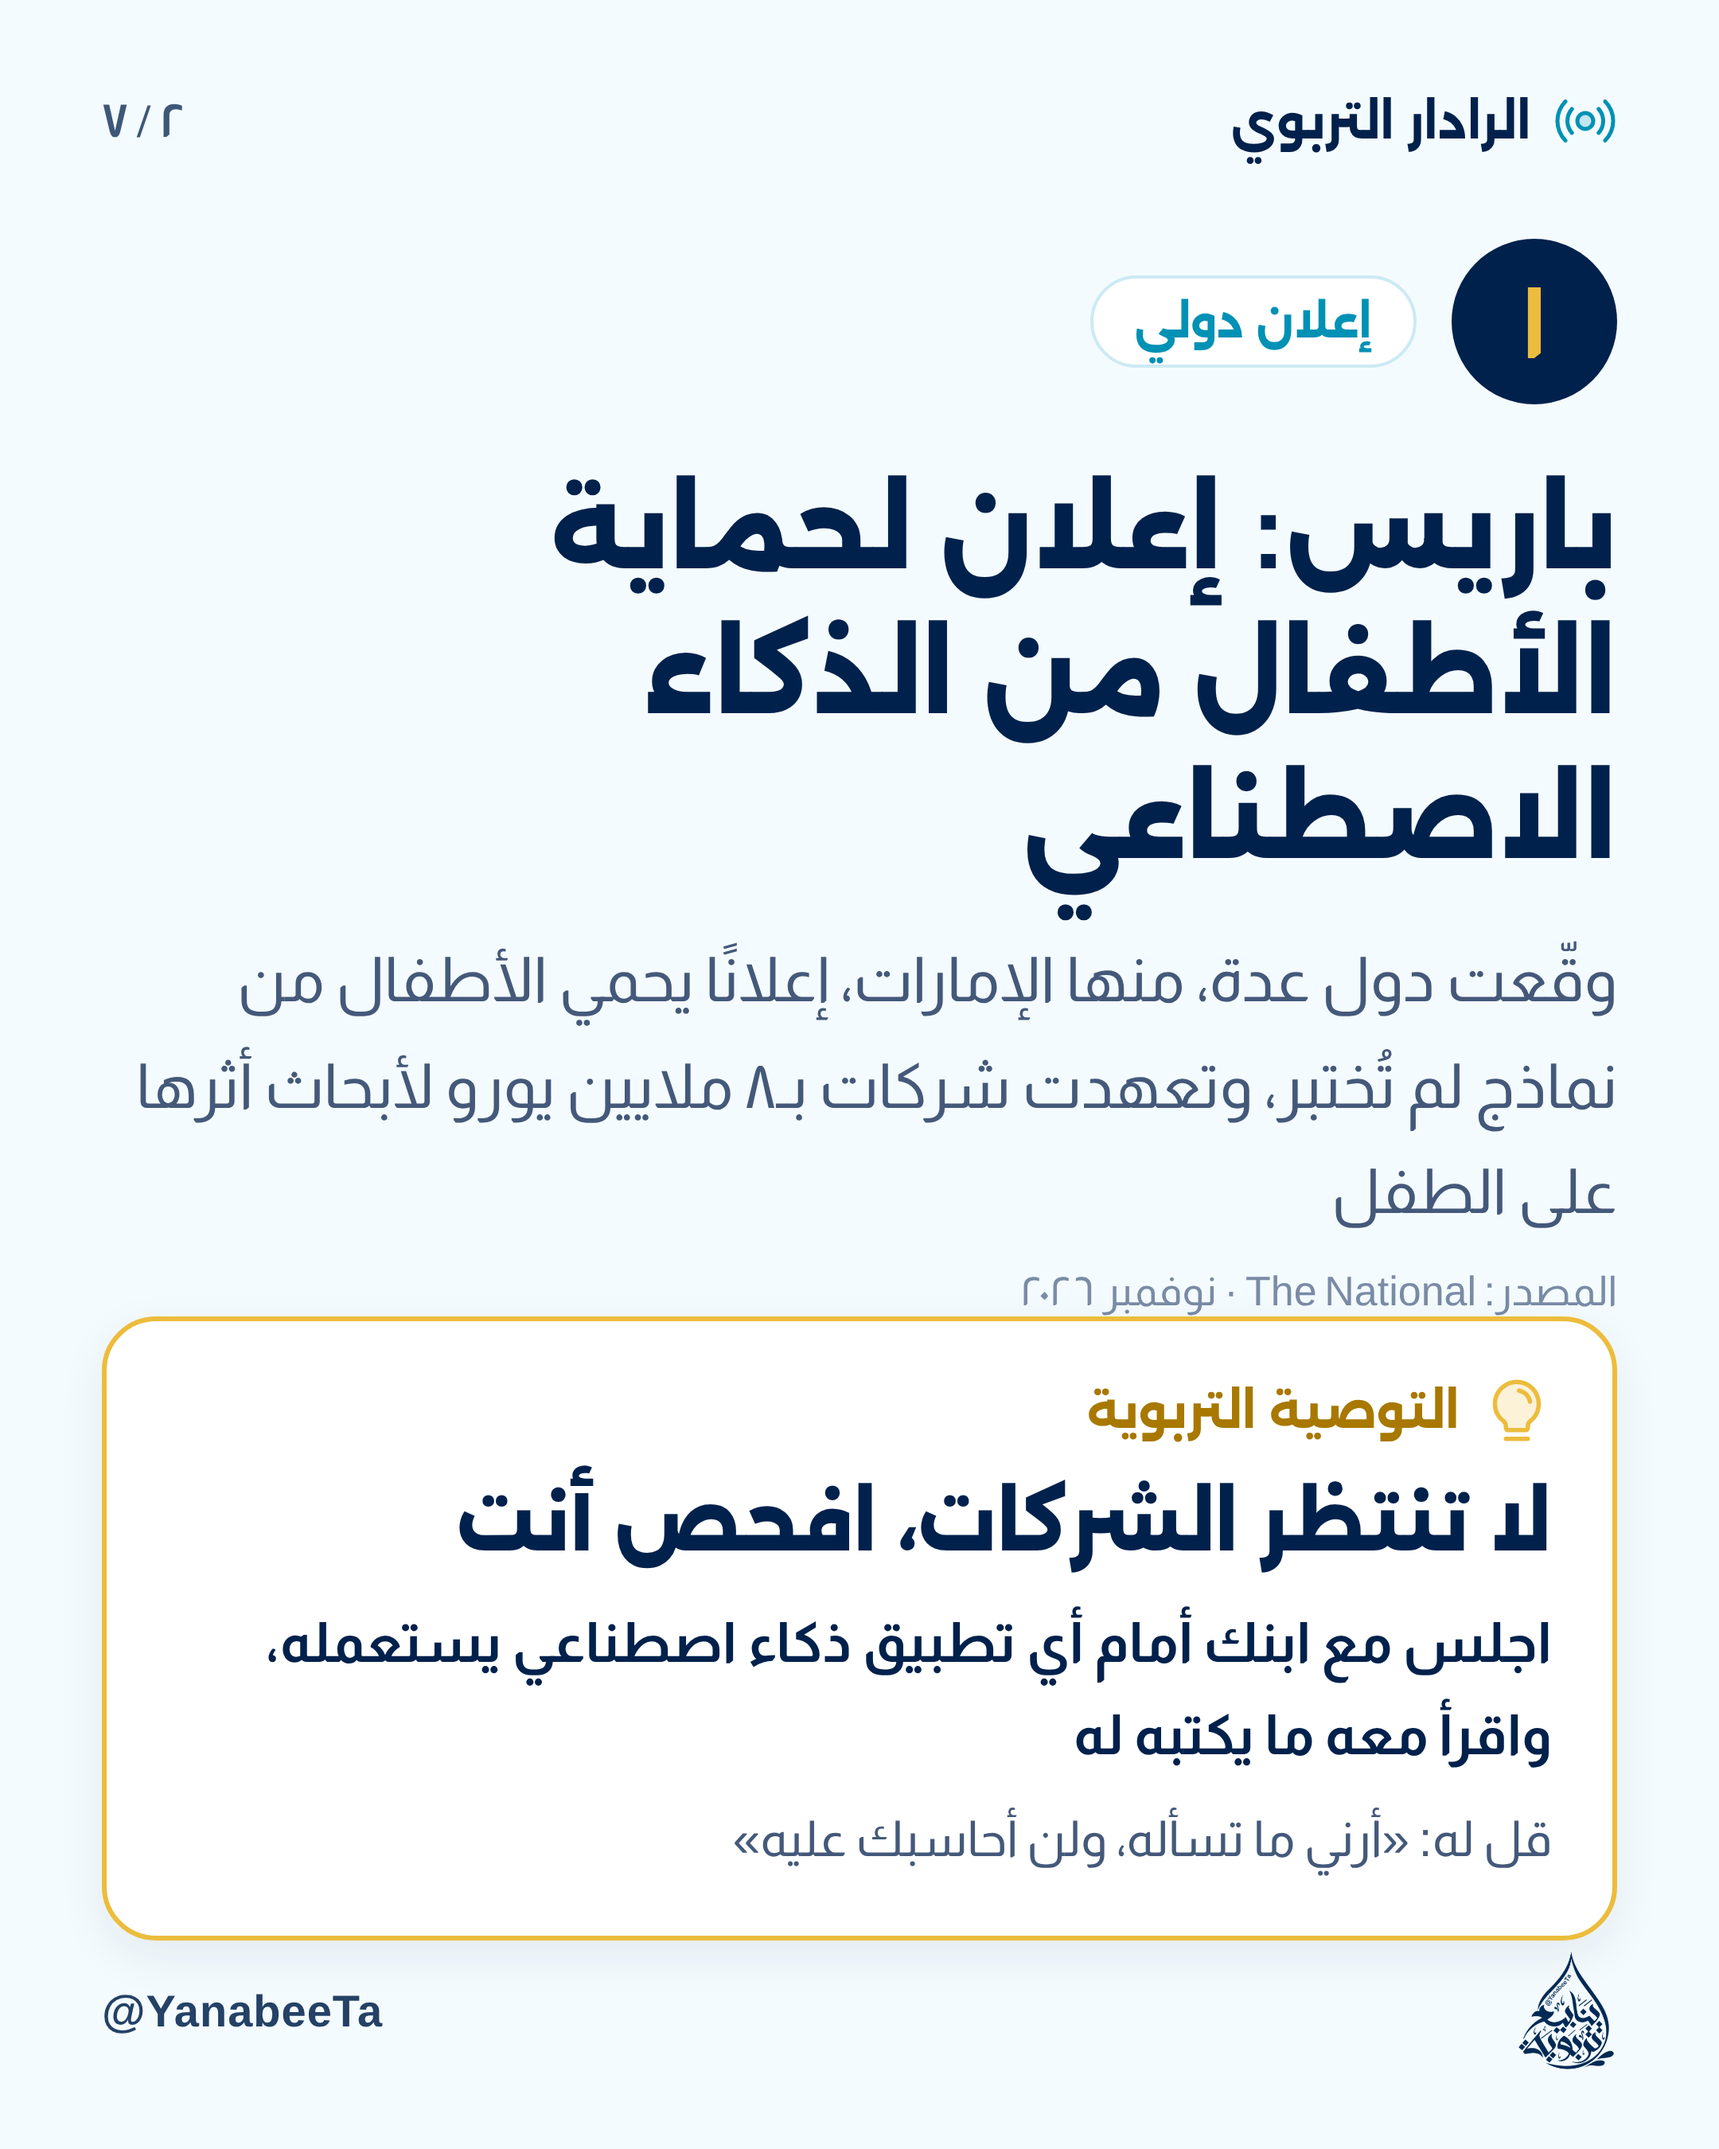
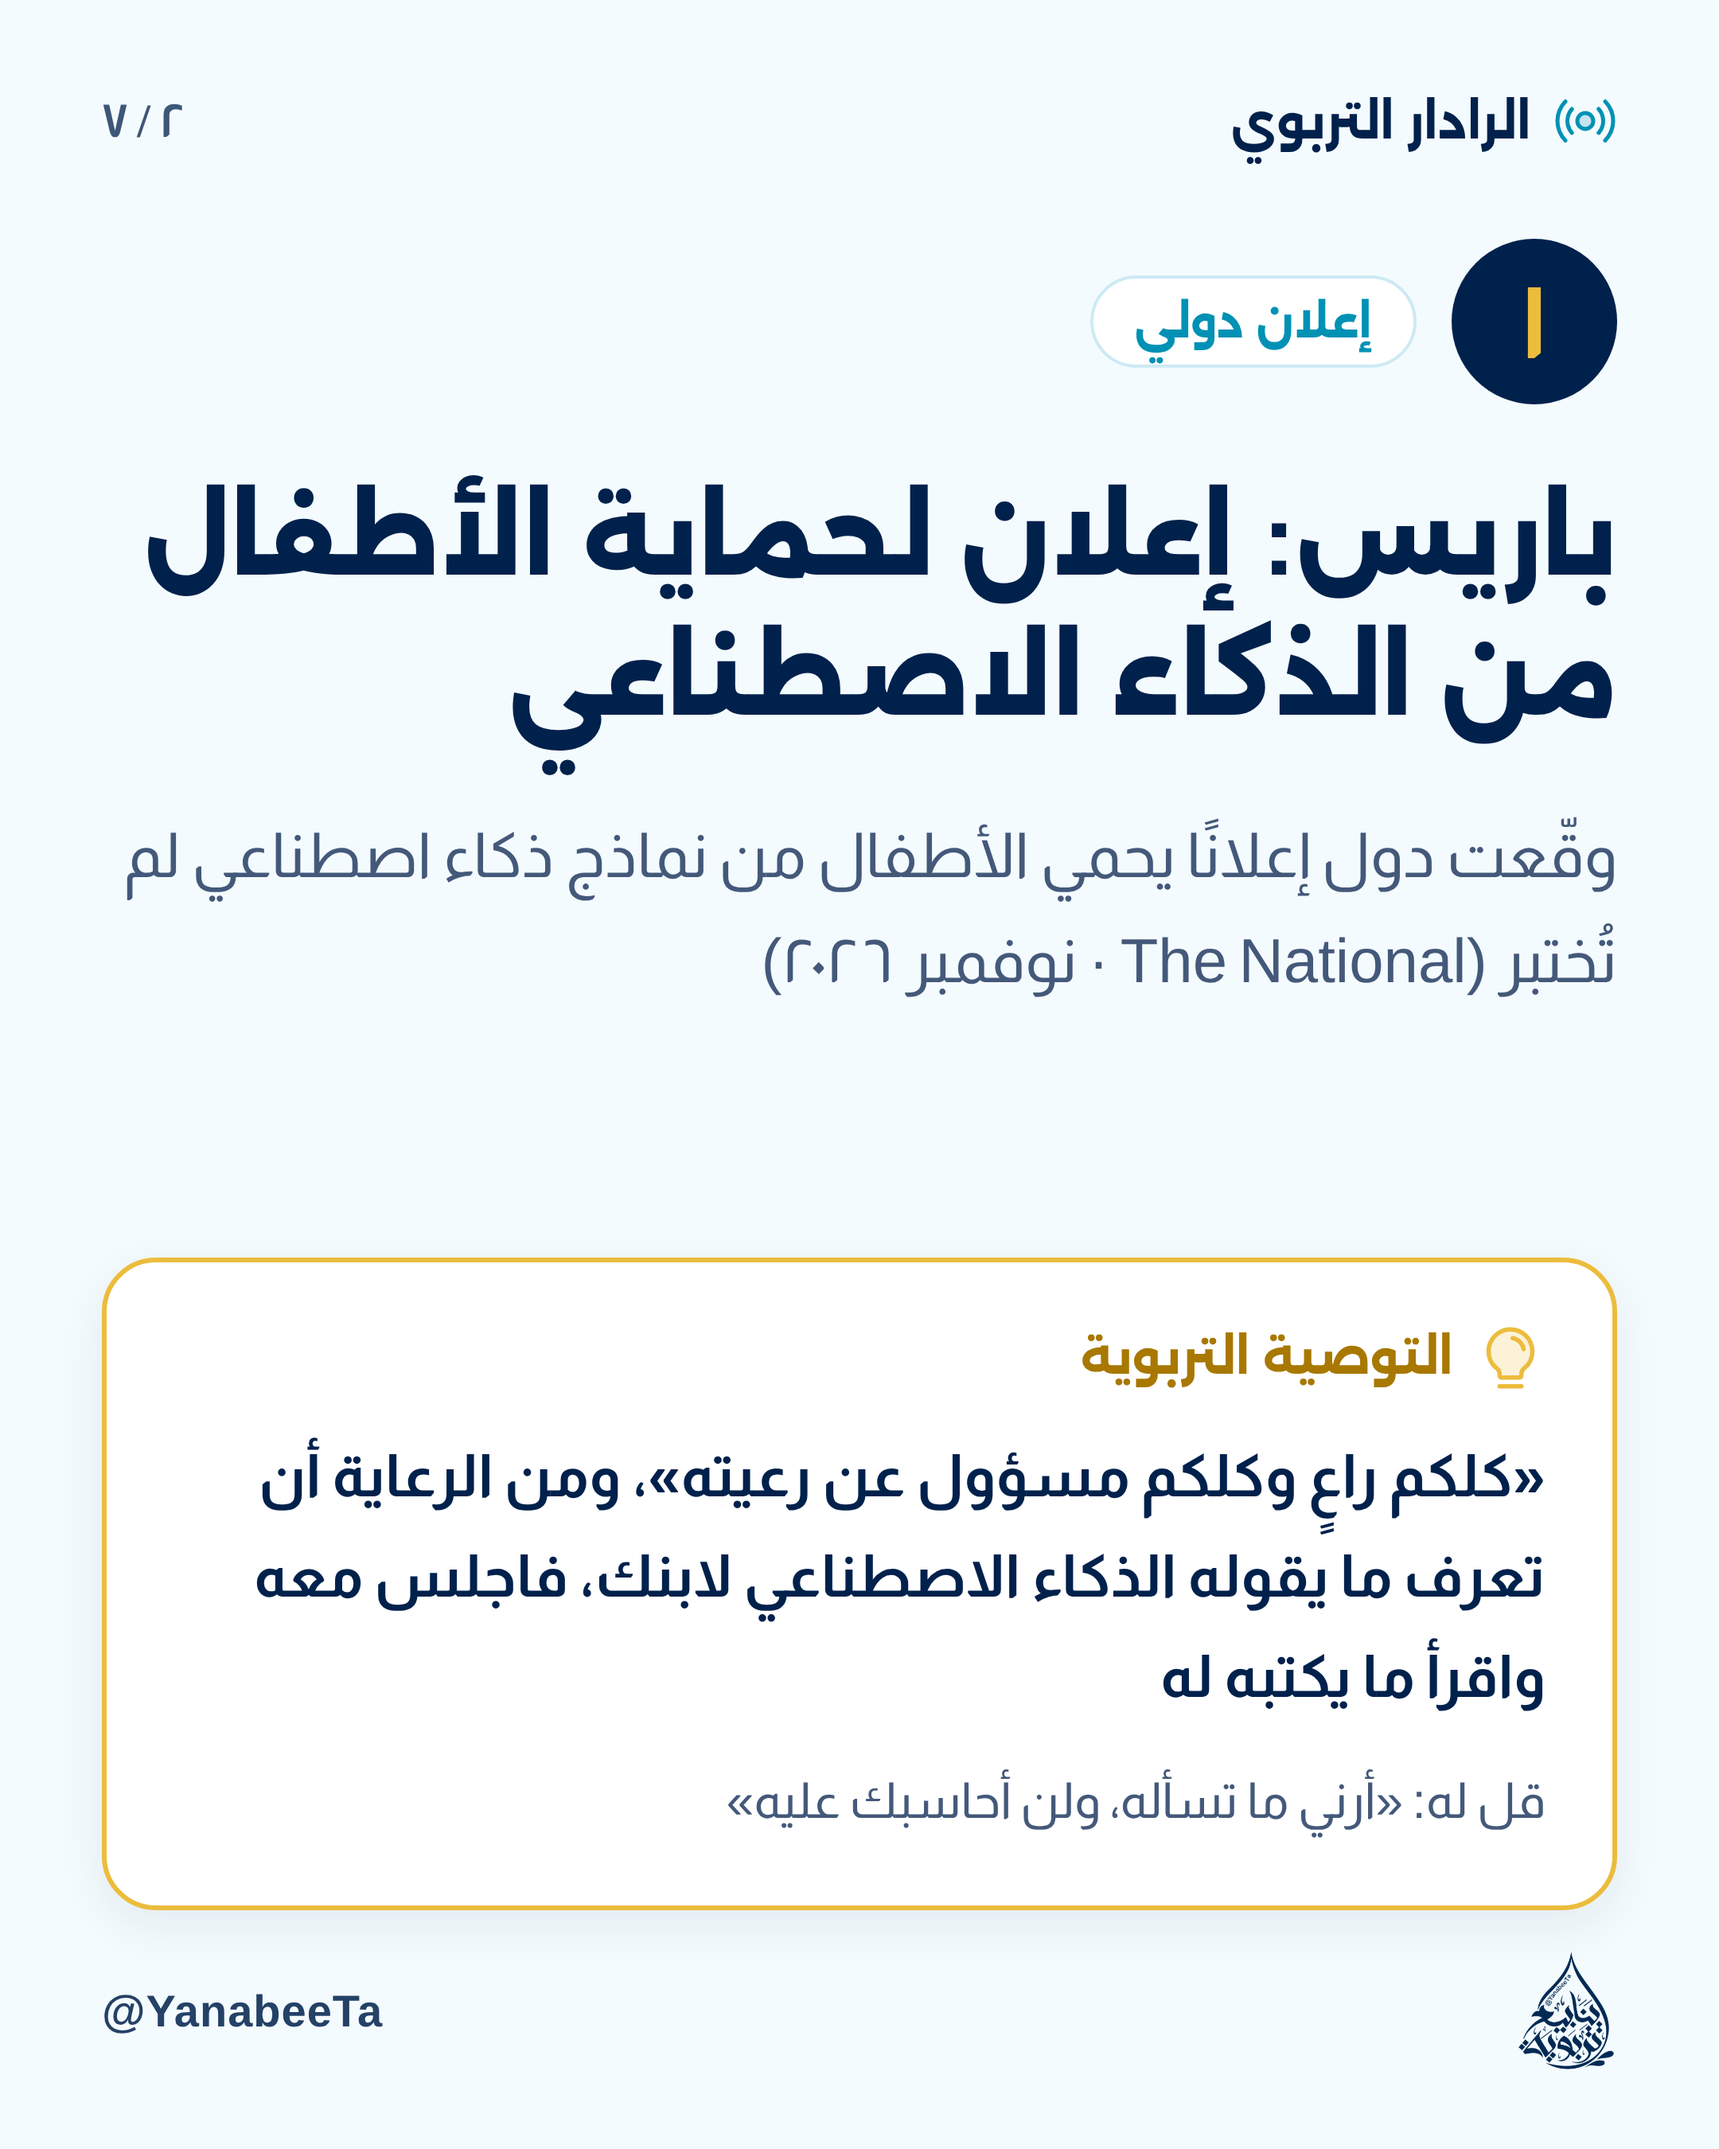
إعادة تصميم شرائح الأخبار: خبر مختصر، المصدر بين قوسين، توصية مباشرة

diff --git a/tools/radar/render_radar.py b/tools/radar/render_radar.py
@@ -98,14 +98,12 @@ def event(i, e):
         <div class="d" style="width:104px;height:104px;border-radius:50%;background:{NAVY};color:{GD};display:flex;align-items:center;justify-content:center;font-size:66px;font-weight:800;flex:none;font-family:Almarai">{n(i)}</div>
         <div class="d" style="background:#fff;border:2px solid {LN};color:{CYT};border-radius:999px;padding:10px 26px;font-size:28px;font-weight:700">{E(e['tag'])}</div>
       </div>
-      <div class="d" style="font-size:66px;font-weight:800;line-height:1.38;margin-top:34px">{dg(E(e['title']))}</div>
-      <div style="font-size:39px;line-height:1.7;color:{SUB};margin-top:22px;font-weight:400">{E(e['fact'])}</div>
-      <div style="font-size:26px;color:#7a8ba6;margin-top:14px">المصدر: {E(e['src'])}</div>
-      <div style="margin-top:auto;background:#fff;border:3px solid {GD};border-radius:34px;padding:34px 38px 36px;box-shadow:0 10px 30px rgba(0,33,76,.07)">
+      <div class="d" style="font-size:64px;font-weight:800;line-height:1.38;margin-top:40px">{dg(E(e['title']))}</div>
+      <div style="font-size:39px;line-height:1.7;color:{SUB};margin-top:34px;font-weight:400">{E(e['fact'])} <span dir="rtl" style="unicode-bidi:isolate;white-space:nowrap">({E(e['src'])})</span></div>
+      <div style="margin-top:auto;background:#fff;border:3px solid {GD};border-radius:34px;padding:38px 42px 40px;box-shadow:0 10px 30px rgba(0,33,76,.07)">
         <div class="d" style="display:flex;align-items:center;gap:14px;color:#a87800;font-size:30px;font-weight:700">{ic('lightbulb',44,GD)}<span>التوصية التربوية</span></div>
-        <div class="d" style="font-size:48px;font-weight:800;line-height:1.4;margin-top:16px">{E(e['rec'])}</div>
-        <div style="font-size:35px;line-height:1.65;margin-top:12px;color:{NAVY};font-weight:700">{E(e['act'])}</div>
-        <div style="font-size:31px;line-height:1.6;margin-top:12px;color:{SUB}">قل له: «{E(e['say'])}»</div>
+        <div style="font-size:37px;line-height:1.7;margin-top:22px;color:{NAVY};font-weight:700">{E(e['act'])}</div>
+        <div style="font-size:31px;line-height:1.6;margin-top:22px;color:{SUB}">قل له: «{E(e['say'])}»</div>
       </div>
     </div>
     {footer()}'''
